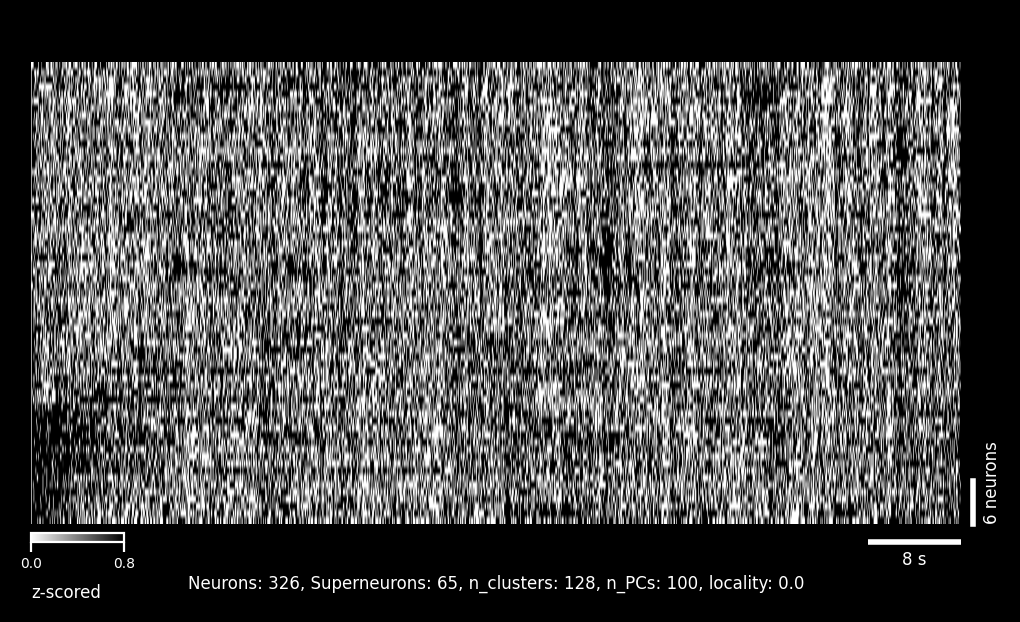
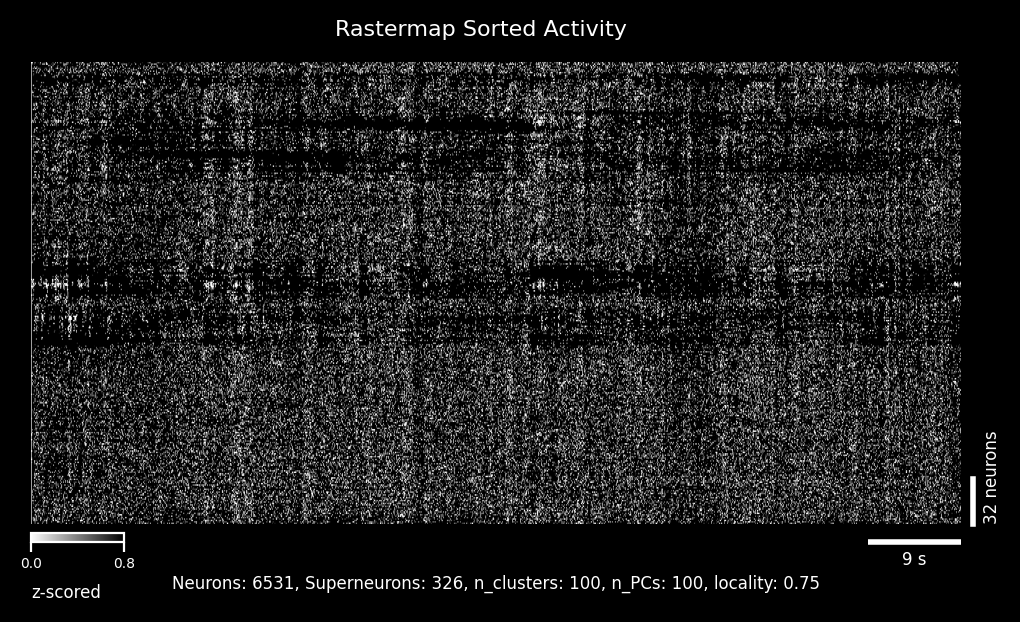
add default output images, docs via user_guide

diff --git a/docs/user_guide.md b/docs/user_guide.md
@@ -168,6 +168,74 @@ Files are numbered to ensure proper ordering when viewing in file browsers.
 | `pc_metrics.csv` | Registration quality metrics |
 | `pc_metrics_panels.tif` | PC metric visualization panels |
 
+#### Reference Images
+
+The pipeline generates several reference images that serve as both quality checks and visualization aids:
+
+```{figure} _images/02_max_projection.png
+:alt: Maximum Intensity Projection
+:name: ug-fig-max-proj
+:width: 50%
+
+**Maximum intensity projection** across all frames. Highlights the brightest pixels over time, useful for identifying highly active regions and checking for motion artifacts.
+```
+
+```{figure} _images/04_mean_enhanced.png
+:alt: Enhanced Mean Image
+:name: ug-fig-mean-enhanced
+:width: 50%
+
+**Enhanced mean image** (meanImgE) with edge sharpening applied. This is the recommended image for Cellpose anatomical detection (`anatomical_only=3`). Cell boundaries are more defined than the standard mean image.
+```
+
+#### Segmentation Overlays
+
+Each reference image has a corresponding segmentation overlay showing detected ROIs:
+
+```{figure} _images/04_mean_enhanced_segmentation.png
+:alt: Segmentation Overlay
+:name: ug-fig-segmentation
+:width: 50%
+
+**Segmentation overlay** on the enhanced mean image. Accepted ROIs are shown as colored outlines. Use this to visually verify that detected cells match actual cell bodies.
+```
+
+#### Quality Diagnostics
+
+The quality diagnostics panel provides a multi-metric view of ROI quality:
+
+```{figure} _images/05_quality_diagnostics.png
+:alt: Quality Diagnostics
+:name: ug-fig-quality-diag
+:width: 100%
+
+**ROI quality diagnostics** showing:
+- **Size distribution**: Histogram of ROI areas (pixels) for accepted vs rejected cells
+- **SNR distribution**: Signal-to-noise ratio for each ROI
+- **Compactness**: How circular each ROI is (1.0 = perfect circle)
+- **Skewness**: Positive skew indicates calcium transients
+
+Use these metrics to tune parameters like `max_overlap`, `threshold_scaling`, and post-hoc filters.
+```
+
+#### Fluorescence Traces
+
+```{figure} _images/07_traces_raw.png
+:alt: Raw Fluorescence Traces
+:name: ug-fig-traces-raw
+:width: 100%
+
+**Raw fluorescence traces** for the top 20 neurons sorted by quality score. The y-axis shows fluorescence intensity (arbitrary units), x-axis shows time in seconds.
+```
+
+```{figure} _images/08_traces_dff.png
+:alt: ΔF/F Traces
+:name: ug-fig-traces-dff
+:width: 100%
+
+**ΔF/F traces** computed using rolling percentile baseline. These normalized traces are directly comparable across cells and experiments. The quality-sorted display surfaces the most reliable signals first.
+```
+
 (understanding-trace-quality-sorting)=
 #### Trace Quality Sorting
 
@@ -347,7 +415,64 @@ When processing multiple planes with `run_volume()`, additional files are genera
 | `volume_summary.csv` | Per-plane statistics table (ROIs, SNR, acceptance rate) |
 | `mean_volume_signal.png` | Mean signal intensity across z-depth |
 | `rastermap.png` | Activity sorted by similarity across all planes |
+| `orthoslices.png` | Orthogonal slices through the volume (XY, XZ, YZ) |
+| `roi_map_3d_snr.png` | 3D scatter plot of ROI centroids colored by SNR |
 | `volume_stats.npy` | Per-plane statistics dictionary |
+
+#### All Planes Masks
+
+```{figure} _images/all_planes_masks.png
+:alt: All Planes Masks
+:name: ug-fig-all-planes
+:width: 100%
+
+**ROI masks across all z-planes** arranged in a grid. Each panel shows the enhanced mean image with segmentation overlay for one plane. Use this to quickly assess segmentation quality across the entire volume and identify planes with poor detection.
+```
+
+#### Orthogonal Slices
+
+```{figure} _images/orthoslices.png
+:alt: Orthoslices
+:name: ug-fig-orthoslices
+:width: 80%
+
+**Orthogonal slices** through the mean intensity volume. Shows XY (axial), XZ (coronal), and YZ (sagittal) views with crosshairs indicating the slice positions. Useful for verifying volume alignment and identifying depth-dependent signal changes.
+```
+
+#### 3D ROI Map
+
+```{figure} _images/roi_map_3d_snr.png
+:alt: 3D ROI Map
+:name: ug-fig-roi-3d
+:width: 80%
+
+**3D scatter plot of ROI centroids** with each point representing a detected cell. Points are colored by SNR (signal-to-noise ratio), revealing the spatial distribution of signal quality through the volume. Brighter colors indicate higher quality cells.
+```
+
+#### Volume Trace Analysis
+
+```{figure} _images/volume_trace_analysis.png
+:alt: Volume Trace Analysis
+:name: ug-fig-vol-trace
+:width: 100%
+
+**Volume-wide trace analysis** combining multiple views:
+- **Left**: Example ΔF/F traces from representative cells across planes
+- **Middle**: SNR and mean fluorescence as a function of z-depth
+- **Right**: Activity heatmap showing temporal patterns across all cells
+
+This visualization helps identify depth-dependent signal quality and synchronized activity patterns.
+```
+
+#### Rastermap (Volume-wide)
+
+```{figure} _images/rastermap.png
+:alt: Rastermap
+:name: ug-fig-rastermap-vol
+:width: 100%
+
+**Activity sorted by similarity** using the [Rastermap](https://github.com/MouseLand/rastermap) algorithm. Cells from all planes are combined and reordered so that neurons with similar activity patterns appear adjacent. This reveals functional clusters and population dynamics that may span multiple z-planes.
+```
 
 ### Registration Quality Metrics
 
